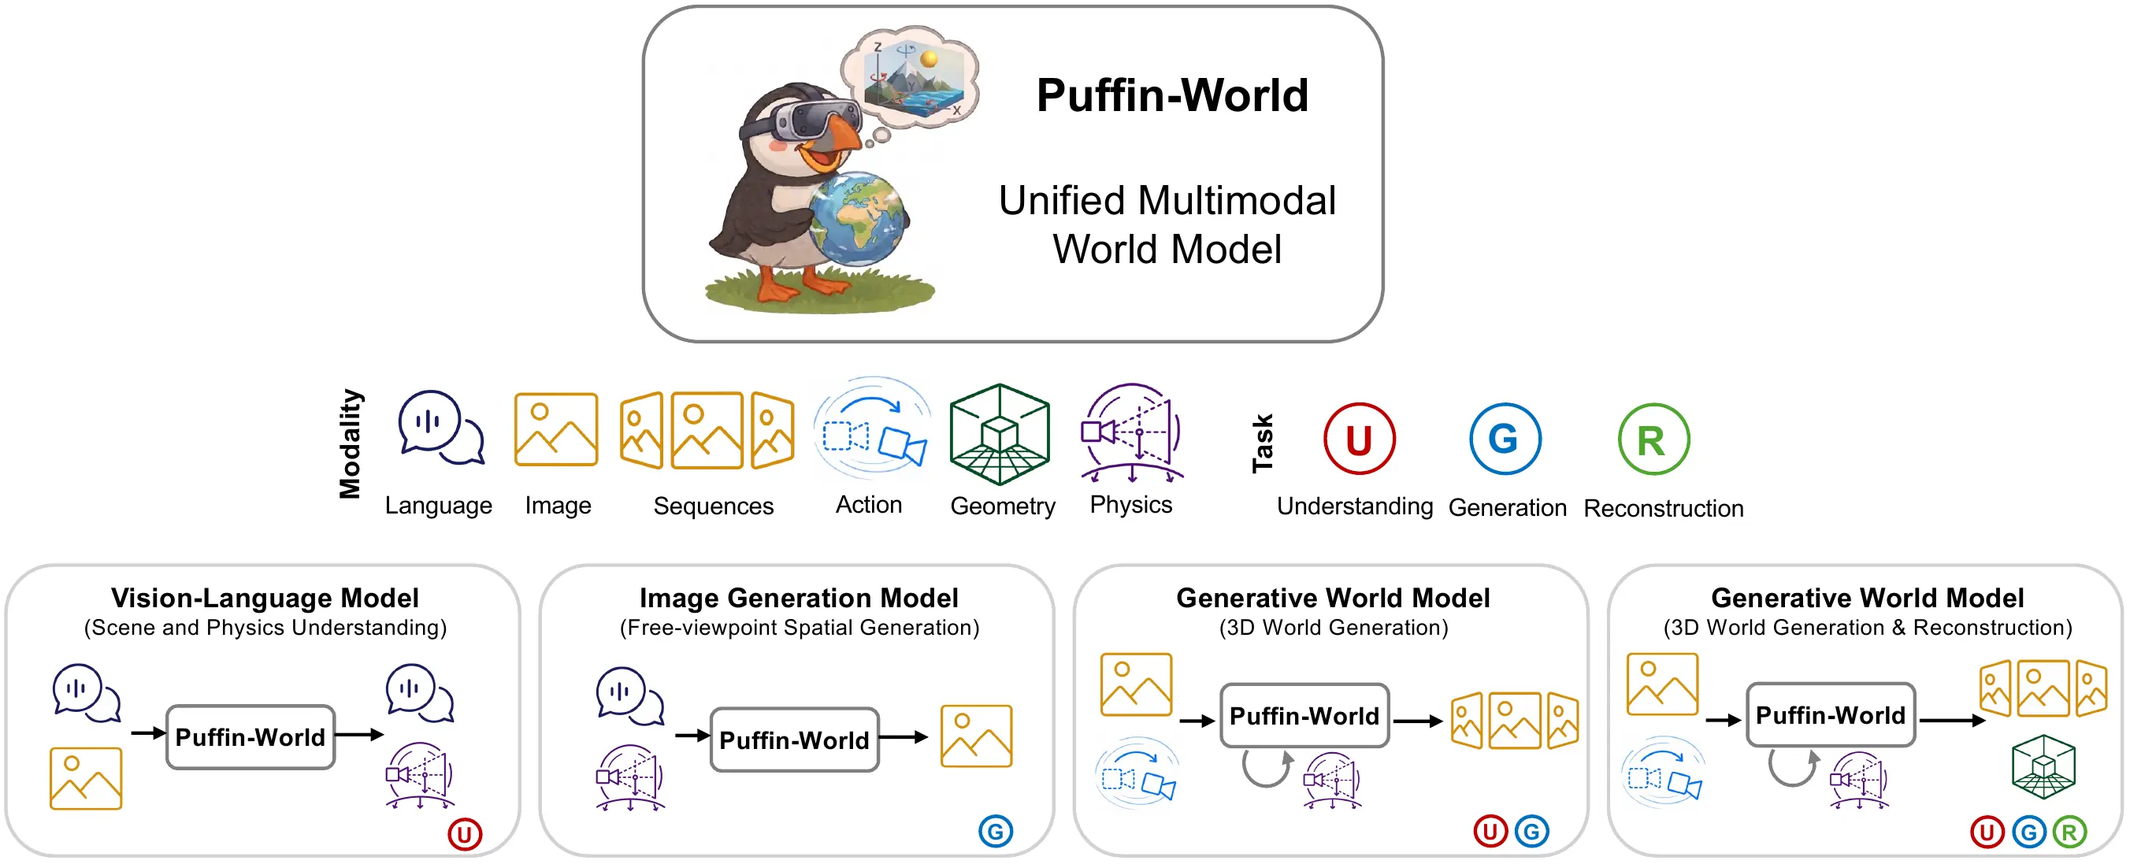
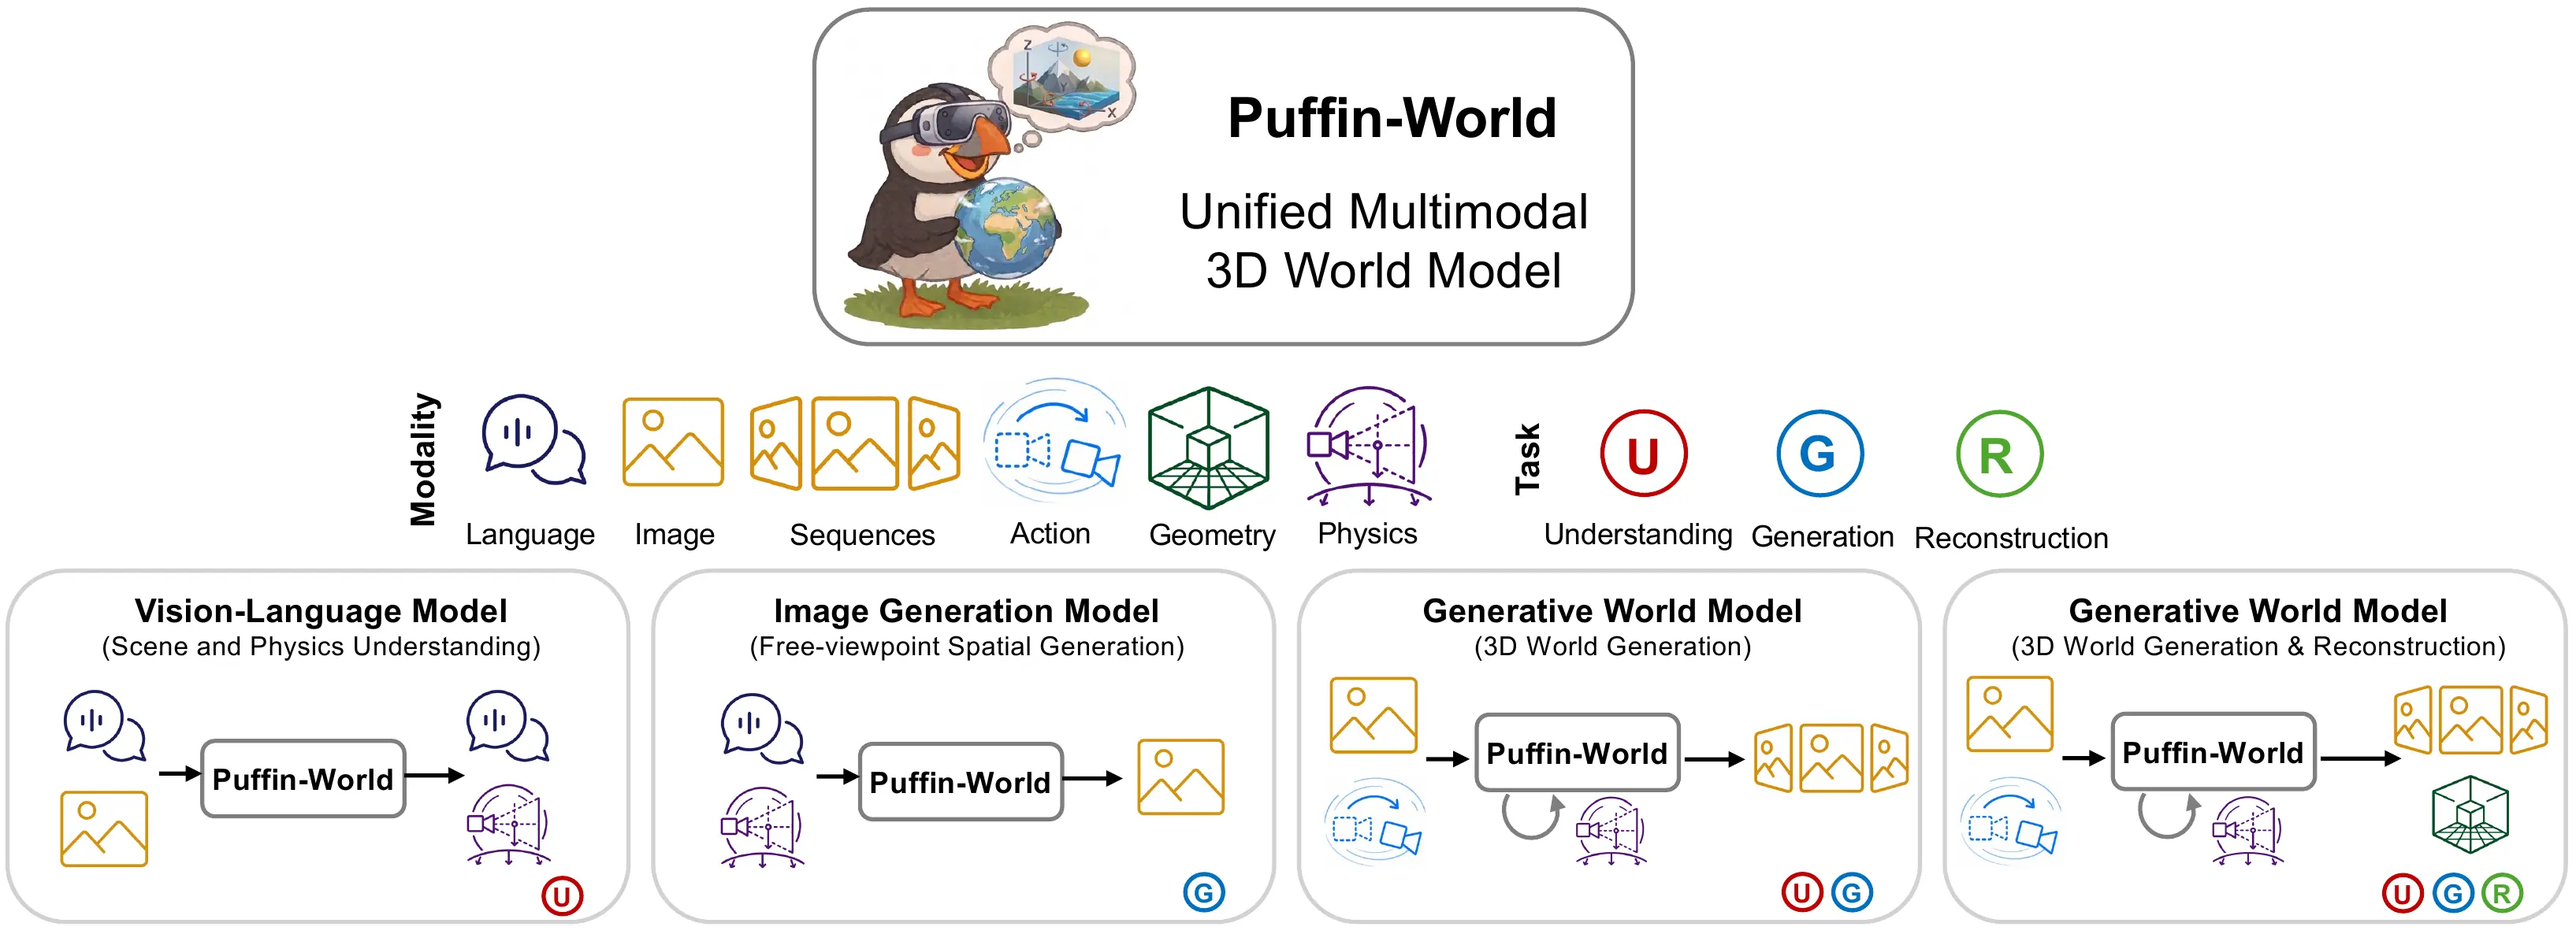
Update overview figure and 3D modeling metrics

Changed region(s): [[0.0, 0.0, 1.0, 1.0]]

diff --git a/projects/puffin-world/index.html b/projects/puffin-world/index.html
@@ -123,7 +123,7 @@
       </div>
 
       <figure class="paper-figure overview-figure">
-        <img loading="lazy" src="assets/figure1-overview.webp?v=20260828-paper-update" alt="Overview of Puffin-World modalities, tasks, and unified understanding, generation, and reconstruction capabilities" width="2704" height="1097">
+        <img loading="lazy" src="assets/figure1-overview.webp?v=20260831-paper-update" alt="Overview of Puffin-World modalities, tasks, and unified understanding, generation, and reconstruction capabilities" width="3269" height="1186">
         <figcaption>Puffin-World unifies camera-physics understanding, free-viewpoint simulation, and 3D world generation and reconstruction through native appearance, geometry, and physics states.</figcaption>
       </figure>
 
@@ -457,7 +457,14 @@
           <p class="section-kicker">3D World Modeling Results</p>
           <h2>Build coherent worlds across viewpoints</h2>
         </div>
-        <p>Puffin-World extends single-view generation to multi-view world modeling with explicit camera trajectories. It supports image-to-3D and text-to-3D generation, large rotations, compound motion, native appearance–geometry–physics prediction, and direct 3D reconstruction.</p>
+        <p>Puffin-World supports image- and text-to-3D generation, challenging rotations and compound motion, native world-state prediction, and 3D reconstruction. In Table 5, it achieves the best PSNR, SSIM, and LPIPS on RealEstate10K, and the best PSNR and LPIPS on Puffin-Traj-Bench, with median roll, pitch, and FoV errors of 0.80°, 1.10°, and 2.96°.</p>
+      </div>
+
+      <div class="metrics-grid">
+        <article><strong>17.22</strong><span>Best PSNR on RealEstate10K</span></article>
+        <article><strong>0.318</strong><span>Best LPIPS ↓ on RealEstate10K</span></article>
+        <article><strong>18.00</strong><span>Best PSNR on Puffin-Traj-Bench</span></article>
+        <article><strong>0.80°</strong><span>Lowest median roll error on Puffin-Traj-Bench</span></article>
       </div>
 
       <figure class="paper-figure modeling-figure">
